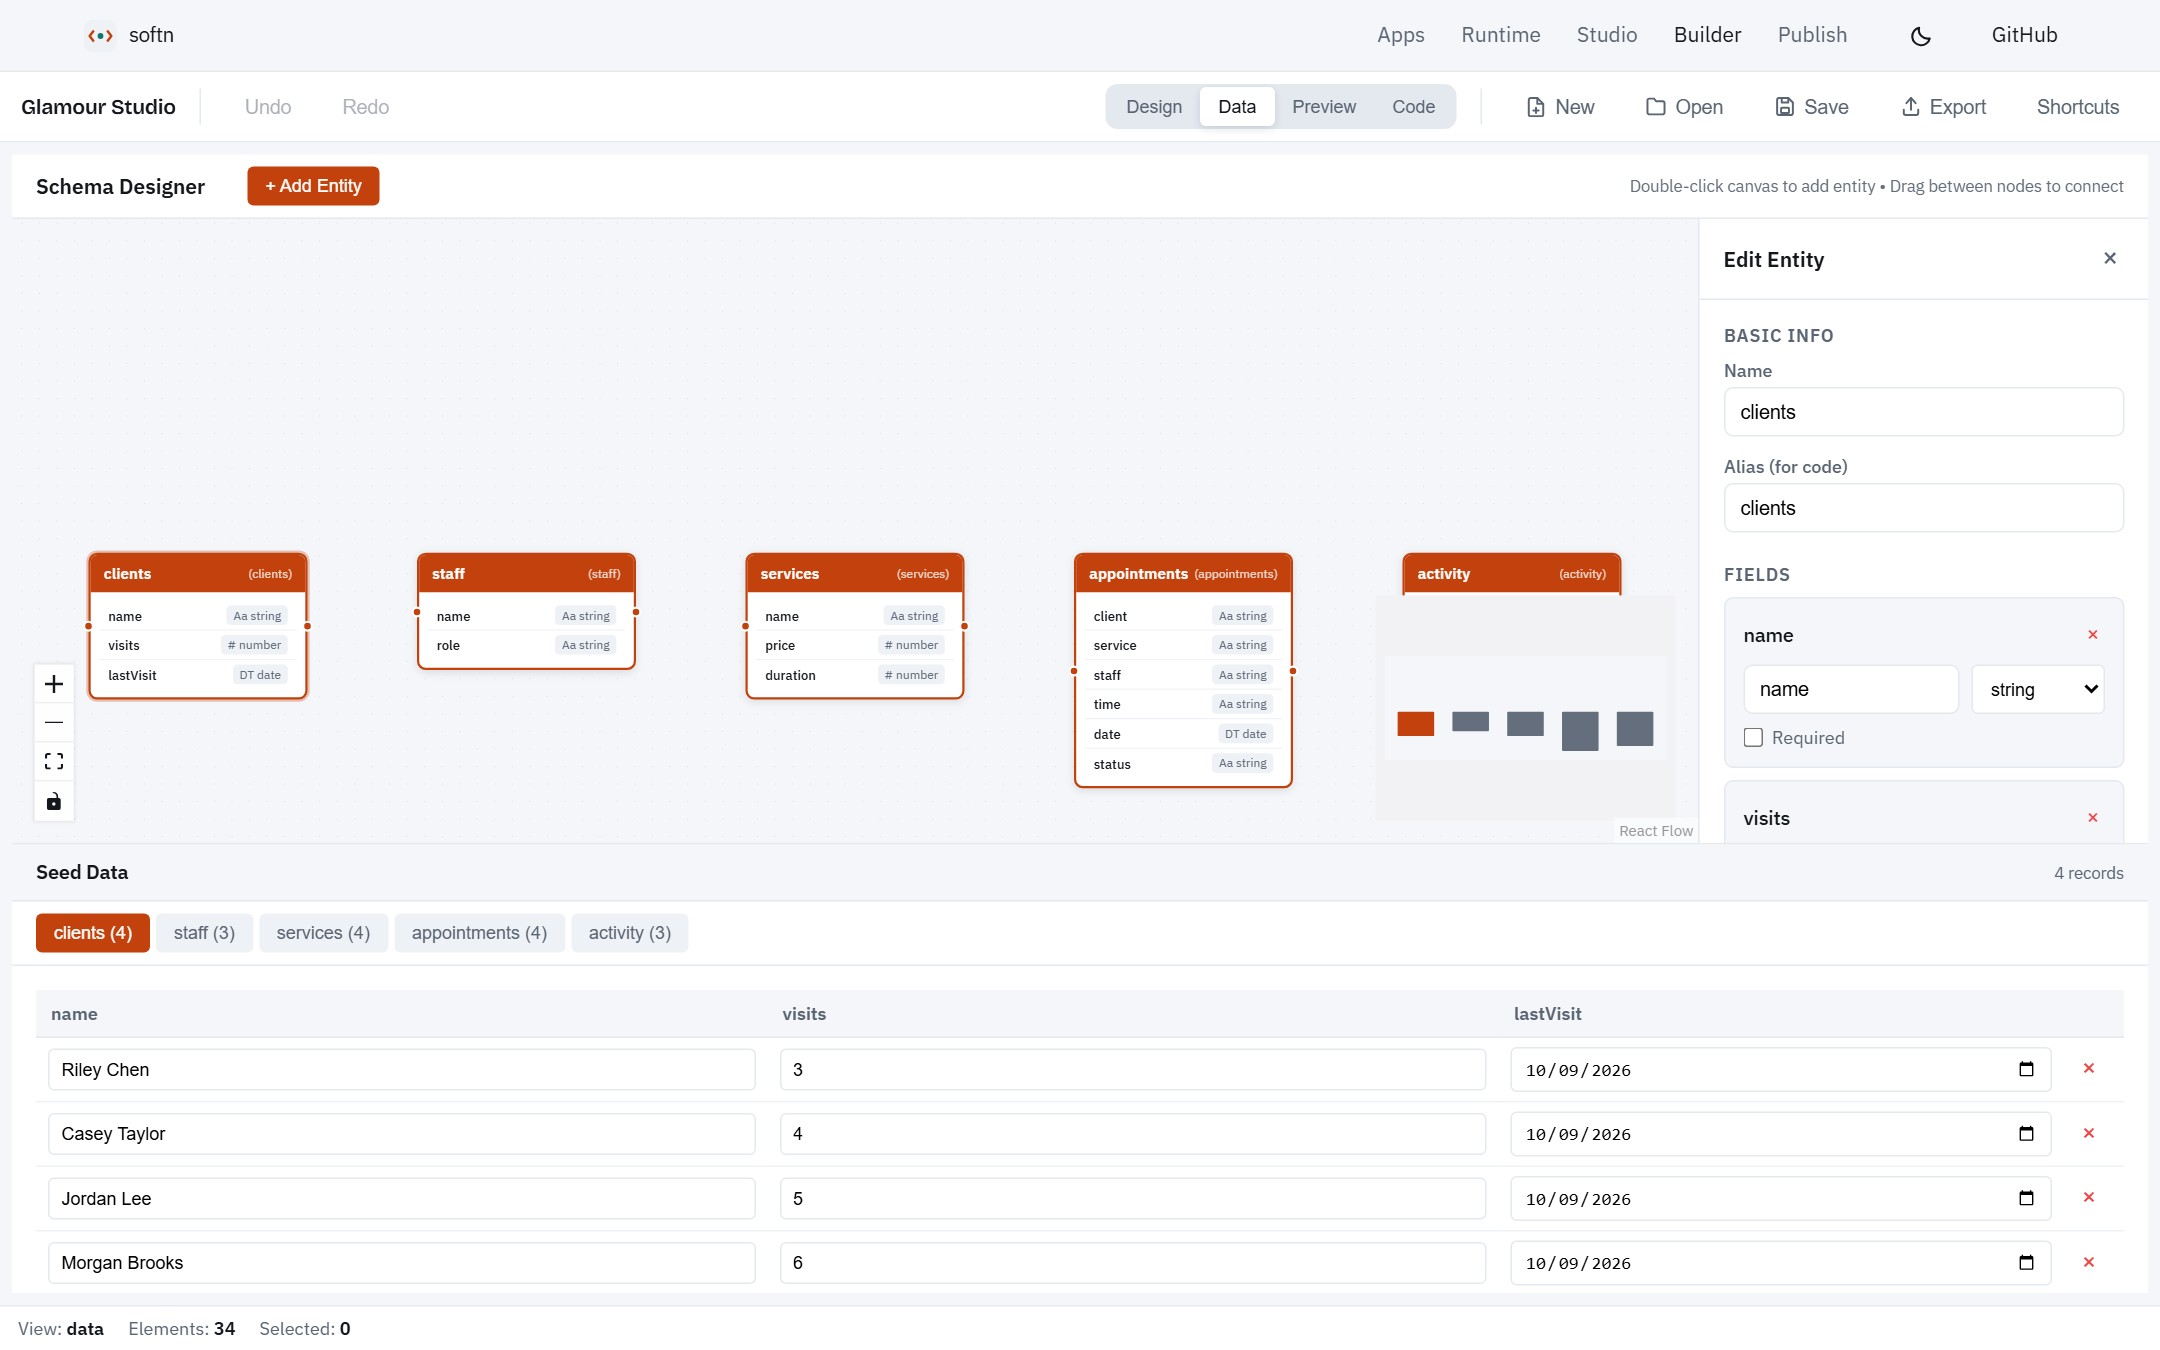
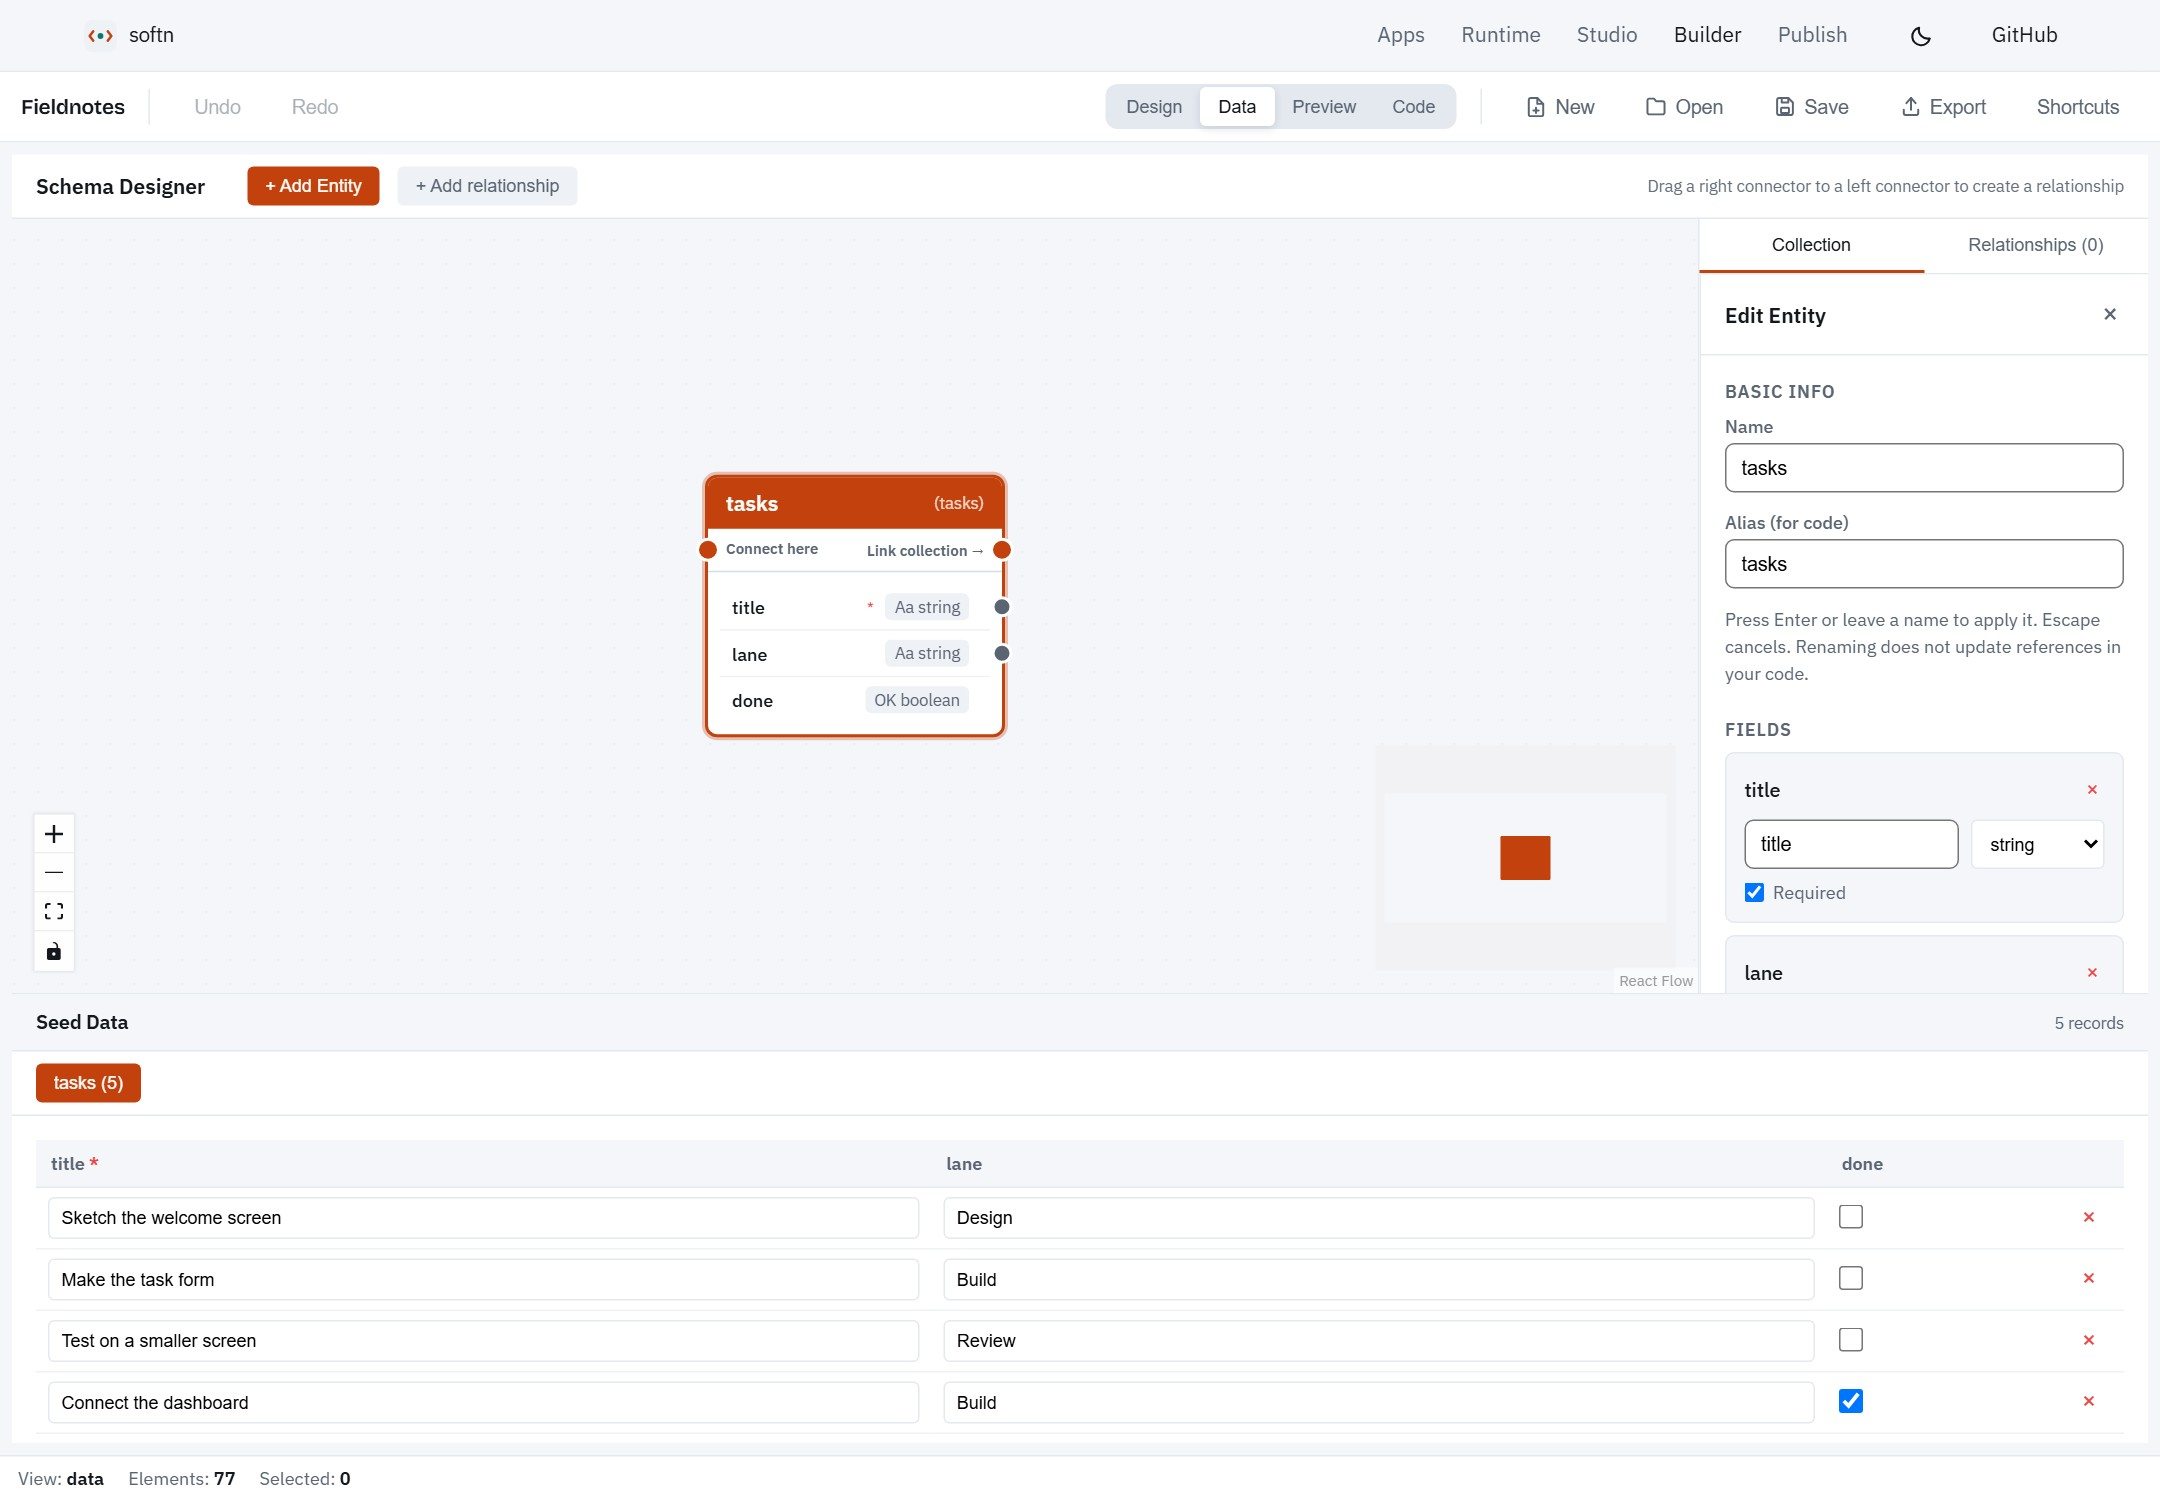
Showcase Fieldnotes and the ZIPP app workflow in README

diff --git a/README.md b/README.md
@@ -10,9 +10,9 @@ A UI language, visual builder and runtime for editable apps on the web and deskt
 
 </div>
 
-![SoftN Builder running the Glamour Studio sample app, with its dashboard, appointments and navigation](docs/readme-assets/builder-preview.jpg)
+![Fieldnotes running inside the real SoftN Builder, with a task dashboard, editable form and live preview](docs/readme-assets/builder-preview.jpg)
 
-_The actual SoftN Builder, running the checked-in Glamour Studio example with fictional records. [Screenshot details](docs/readme-assets/README.md)._
+_Meet **Fieldnotes**: a working app whose form, logic running on ZIPP and XDB records update one dashboard. This is the actual Builder preview. [Read the source](examples/fieldnotes) · [Get the .softn bundle](apps/softn-site/public/examples/Fieldnotes.softn) · [Screenshot details](docs/readme-assets/README.md)._
 
 SoftN brings the interface, logic and data model together in a portable `.softn` app. Build visually, edit the source, or use your own AI provider in Studio. Open the result in the browser, run it on the desktop, publish it to the app directory, or connect it to FormLogic for a hosted backend.
 
@@ -29,6 +29,25 @@ The project is actively developed. The examples and runtime are usable today; ho
 | **Portable apps**         | A `.softn` bundle carries the editable interface, client logic, data seeds and assets. Reopen it, customize it and export it again.                                            |
 | **More than CRUD**        | Audio, microphone input, animation and Three.js scenes are available through components and explicitly granted capabilities.                                                   |
 
+## See an app powered by ZIPP
+
+Fieldnotes is a small task planner you can use, inspect and change. Add a task,
+mark it complete and watch the list and totals update. Its `.logic` executes on
+[ZIPP](https://github.com/f2i-com/zipp.org); SoftN renders the interface and connects
+the script to XDB. No AI provider or account is needed to try it.
+
+| Follow the action | Open the source |
+| :---------------- | :-------------- |
+| **Enter a task.** The form binds its inputs and calls `addTask()` when you press the button. | [Interface and bindings](examples/fieldnotes/ui/main.ui) |
+| **Run the logic.** ZIPP executes validation, creates the task record and refreshes the dashboard; `toggleTask()` updates completion. | [The app's .logic file](examples/fieldnotes/logic/main.logic) |
+| **Keep the data.** The bundle supplies the collection schema and five sample tasks. Runtime saves your new records locally. | [Schema, seeds and bundle builder](examples/fieldnotes/build.mjs) |
+
+Open the same bundle in Studio, Builder or Runtime. Change a heading visually,
+edit the logic, switch themes or export the result as your own app. Builder's
+preview has its own test records; use Data view to edit the seeds you ship.
+
+**[Explore Fieldnotes](examples/fieldnotes/README.md)** · **[Run it locally](#get-started)** · **[Explore games, emulators and more](#demos)**
+
 ## From an idea to an app
 
 1. **Start with a brief or a bundle.** Use Studio with your own AI provider, create a project in Builder, or open an existing `.softn` app.
@@ -36,23 +55,38 @@ The project is actively developed. The examples and runtime are usable today; ho
 3. **Try the whole flow.** Preview at desktop, tablet and mobile sizes, and use sample records to exercise forms and dashboards.
 4. **Export and choose a host.** Run the bundle locally, publish it in the directory, deploy a single app, or host it through FormLogic.
 
-![SoftN Builder schema editor showing clients, staff, services, appointments and fictional seed records](docs/readme-assets/builder-data.jpg)
+<details>
+<summary><strong>Inspect the collection behind the form</strong></summary>
 
-_The same app in Data view: collections, field types and seed records are part of the workspace._
+![SoftN Builder Data view showing Fieldnotes task fields and sample records](docs/readme-assets/builder-data.jpg)
+
+_The same Fieldnotes app in Data view: the `tasks` collection, its field types and the five sample records carried by the bundle._
+
+</details>
 
 <table>
 <tr>
 <td width="65%" valign="top">
 <h3>One app, different screen sizes</h3>
 <p>The preview runs the actual app. Switch viewport sizes to check navigation, forms and content before you share it.</p>
-<p>This is the same Glamour Studio example at a mobile viewport, including its compact header and bottom navigation. Its records are fictional, and the capture is taken directly from the running preview.</p>
+<p>This is Fieldnotes running at a phone-sized viewport in dark mode. Its dashboard, filters and task form adapt to the available width, and the page scrolls to the rest of the workspace.</p>
+<p>The runtime theme switch updates the app without clearing unfinished input. The same source provides both the warm light palette above and the dark palette shown here.</p>
 <p>Responsive behavior still belongs to the app's layout: test your own pages and interactions at the sizes you intend to support.</p>
 </td>
 <td width="35%" align="center">
-<img src="docs/readme-assets/app-mobile.jpg" width="280" alt="Glamour Studio sample app in the real mobile preview, with dashboard cards and bottom navigation" />
+<img src="docs/readme-assets/app-mobile.jpg" width="280" alt="Fieldnotes running on a phone-sized screen in dark mode, with its task dashboard and responsive navigation" />
 </td>
 </tr>
 </table>
+
+<details>
+<summary><strong>See the full app in dark mode</strong></summary>
+
+![The same Fieldnotes app running in SoftN Runtime with its dark palette, task list and form](docs/readme-assets/app-dark.jpg)
+
+_A direct screenshot of the running app. Its colours and responsive layout live in the editable `.ui` source._
+
+</details>
 
 ## Get started
 
@@ -80,7 +114,7 @@ The launcher proxies the browser apps through one origin and picks alternate por
 
 Runtime keeps apps running when you return to its workspace, so you can browse the directory and open another app without losing an unfinished form. Use **Home** to switch apps, or **Close** to stop the current one. Apps you open are kept in this browser's library; offline readiness is shown for each saved app.
 
-For a first project, open Builder, choose **New**, add a layout and components, then use **Preview** and **Export**. Use **Open** to bring an exported app back into the editor. For examples as source, see [softn-Examples](https://github.com/f2i-com/softn-Examples) and the [Glamour Studio fixture](apps/softn-builder/src/utils/__fixtures__/GlamourStudio) pictured above.
+For a first project, open the homepage's **Fieldnotes** example in Builder, select its heading and change **Text Content**, then use **Preview** and **Export**. Use **Open** to bring your exported app back into Studio, Builder or Runtime. Or choose **New** in Builder to start from a blank app. The [Fieldnotes source](examples/fieldnotes) is included in this repository; [softn-Examples](https://github.com/f2i-com/softn-Examples) contains the wider demo catalogue.
 
 ## Connect to FormLogic
 
@@ -655,11 +689,14 @@ catalogues migrate automatically; see the API README before upgrading.
 
 ### Demos
 
-The demos are the example applications in
+The included [Fieldnotes teaching app](examples/fieldnotes) is the working example
+shown above. Its editable source and `.softn` bundle are checked into this repository.
+
+The downloadable demo catalogue comes from the example applications in
 [softn-Examples](https://github.com/f2i-com/softn-Examples): every bundle the
 directory lists, as source, with the packer, the validator and the tests. That
 repository's `Release` workflow packs them and publishes the archives, and this
-one carries no copies. `apps/softn-web/public/demos/index.json` pins a release
+repository fetches those release bundles when needed. `apps/softn-web/public/demos/index.json` pins a release
 by download URL, size and SHA-256 for each bundle, and `npm run fetch:demos`
 downloads whatever is missing or stale and refuses an archive that does not
 verify. `dev`, `dev:web`, `build:site --with-demos`, `screenshot:demos` and `test` fetch
@@ -699,7 +736,6 @@ Each is a worked example of some part of the runtime.
 
 | Demo              | Description                                                                                 |
 | ----------------- | ------------------------------------------------------------------------------------------- |
-| **GlamourStudio** | A salon's front desk on `SmartGrid` and `SmartForm`, syncing between devices                |
 | **DeviceKit**     | What a sandboxed app may ask for, one page per permission: network, camera, files, QR codes |
 | **Showcase**      | Every chart, animation and interactive component the runtime ships                          |
 | **Notes**         | A shared notes board in the app's server-side storage                                       |

diff --git a/docs/readme-assets/README.md b/docs/readme-assets/README.md
@@ -1,49 +1,41 @@
-# README screenshot provenance
+# README screenshots
 
-These are direct browser screenshots of the real SoftN Builder and its live
-preview, captured on 12 September 2026. They are not generated illustrations or
-mockups. All app code comes from the checked-in
-[Glamour Studio fixture](../../apps/softn-builder/src/utils/__fixtures__/GlamourStudio).
+Direct screenshots of the real SoftN Builder and Runtime, captured on
+12 September 2026. The app is [Fieldnotes](../../examples/fieldnotes), using the
+checked-in [bundle](../../apps/softn-site/public/examples/Fieldnotes.softn).
+Its `.ui` is rendered by SoftN and its `.logic` runs on ZIPP.
 
-| Asset                 | Pixels      | View                                                                             |
-| :-------------------- | :---------- | :------------------------------------------------------------------------------- |
-| `builder-preview.jpg` | 2160 × 1500 | Builder in Preview mode, desktop app in its light theme.                         |
-| `builder-data.jpg`    | 2160 × 1350 | Builder in Data mode, collection schemas and fictional seed records.             |
-| `app-mobile.jpg`      | 558 × 1206  | The app iframe in Builder's Mobile preview, cropped to the iframe by Playwright. |
+| Asset | Pixels | View |
+| :---- | :----- | :--- |
+| `builder-preview.jpg` | 2160 × 1500 | Builder Preview, Fieldnotes in light mode with an unfinished task in the form. |
+| `builder-data.jpg` | 2160 × 1500 | Builder Data, the task collection's schema and five sample records. |
+| `app-dark.jpg` | 2160 × 1500 | The same bundle running in Runtime in dark mode. |
+| `app-mobile.jpg` | 585 × 1266 | Runtime at 390 × 844 CSS pixels, dark mode, with the runtime bar hidden using its own control. |
 
-## Sample data and isolation
+## Reproduce
 
-A temporary `.softn` ZIP was assembled from the fixture's unchanged `ui/` and
-`logic/` directories. Its manifest used the title `Glamour Studio`, version
-`1.0.0`, and the demo ID `softn-readme-glamour-demo`. An empty permission
-declaration disabled optional capabilities. The archive also contained five
-collections of synthetic XDB seed records:
+Build the shared packages and start the local site with `npm run dev`, then run
+from the repository root:
 
-- Four clients: Riley Chen, Casey Taylor, Jordan Lee and Morgan Brooks.
-- Three staff members: Sam Rivers, Alex Quinn and Jamie Park.
-- Four services: Cut & style, Colour refresh, Blow dry and Consultation.
-- Four appointments using those fictional people and services.
-- Three fictional activity entries.
+```sh
+node docs/readme-assets/capture.mjs
+```
 
-The names, counts, dates and appointments are demonstration data. No real
-account, customer, phone number, email, transcript, API key or booking was used.
-No FormLogic or OAIY session was connected, and no AI request was made.
+`BUILDER_URL` and `RUNTIME_URL` override the default addresses at
+`http://localhost:1420/builder/` and `http://localhost:1420/web/`.
 
-## Capture method
+The script opens a fresh Playwright Chromium context, uses the actual checked-in
+bundle and captures the visible page at device scale factor 1.5. It waits for
+loaded fonts, the real app and the import notice to disappear. Images are JPEG
+at quality 90, with animations disabled. No image is retouched or composited.
 
-1. Build the shared packages and start Builder locally, for example with
-   `npm run dev:builder`.
-2. Open Builder in a fresh Playwright Chromium context with service workers
-   blocked, a light browser theme, reduced motion, and device scale factor 1.5.
-   Allow requests only to that local Builder origin.
-3. Use Builder's **Open** file picker to load the temporary sample bundle.
-4. Choose **Preview**, wait for the sample dashboard, then use the app's
-   **Switch to light** button. Let the import toast disappear before capture.
-5. Capture the desktop page at a 1440 × 1000 viewport. Use Builder's **Mobile**
-   control and screenshot the actual iframe element for the mobile image.
-6. Choose **Data** and capture the schema editor at a 1440 × 900 viewport.
+The capture also checks actual task creation/completion, updated totals,
+preview isolation from exported seed records, the dark palette and mobile
+overflow. All five starting tasks are fictional examples from
+[`build.mjs`](../../examples/fieldnotes/build.mjs). The unfinished draft and test
+tasks exist only in disposable browser storage. No account, AI provider or
+connected FormLogic/OAIY session is used.
 
-JPEG quality is 90. The screenshots have not been retouched or composited.
-The temporary bundle, browser profile, local storage and build output are not
-part of these documentation assets. The screenshots show the current example's
-layout and should be refreshed when that example or the builder changes.
+Refresh these images when Fieldnotes or the workspaces change. The screenshots
+illustrate the app's real layout; its interactive source remains available in
+the bundle and example directory.
